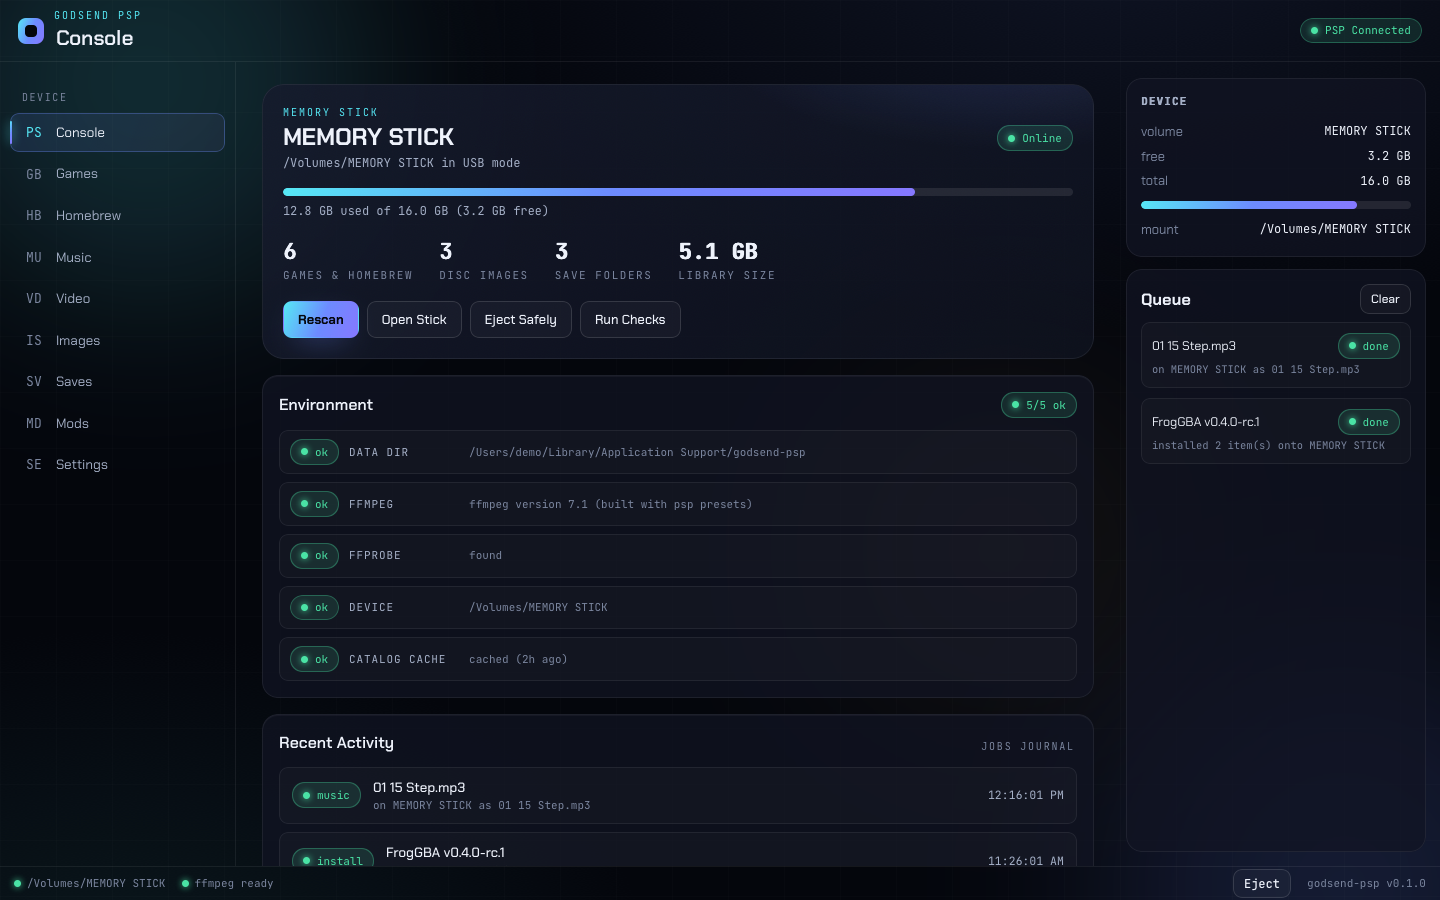
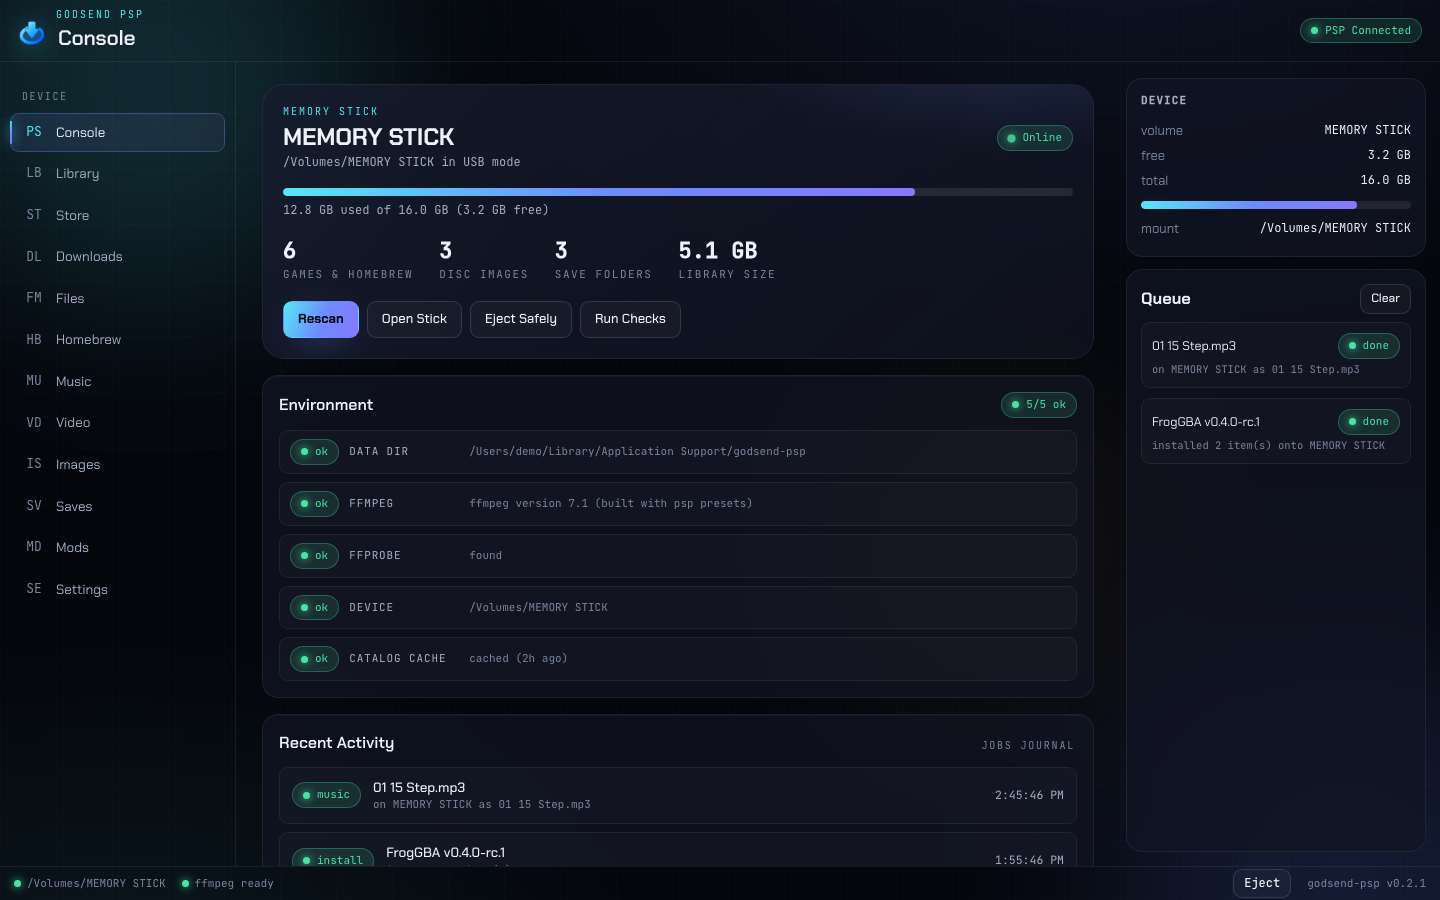
release: normalize artifact names before upload
CI emits versionless macOS DMG and CLI names; the publish script now maps
every artifact to godsend-psp-<version>-<platform>.<ext> so the README and
downloads.json stay consistent.

diff --git a/CHANGELOG.md b/CHANGELOG.md
@@ -20,6 +20,9 @@ All notable changes to GODsend PSP. Newest first.
 
 ### Fixed
 
+- Publish script normalizes CI artifact names to `godsend-psp-<version>-...`
+  before upload, so the README and site table carry consistent versioned
+  filenames for every platform.
 - GitHub Releases and tags removed; CI builds only on manual dispatch and
   the publish script dispatches its own build, so nothing recreates a
   release.
